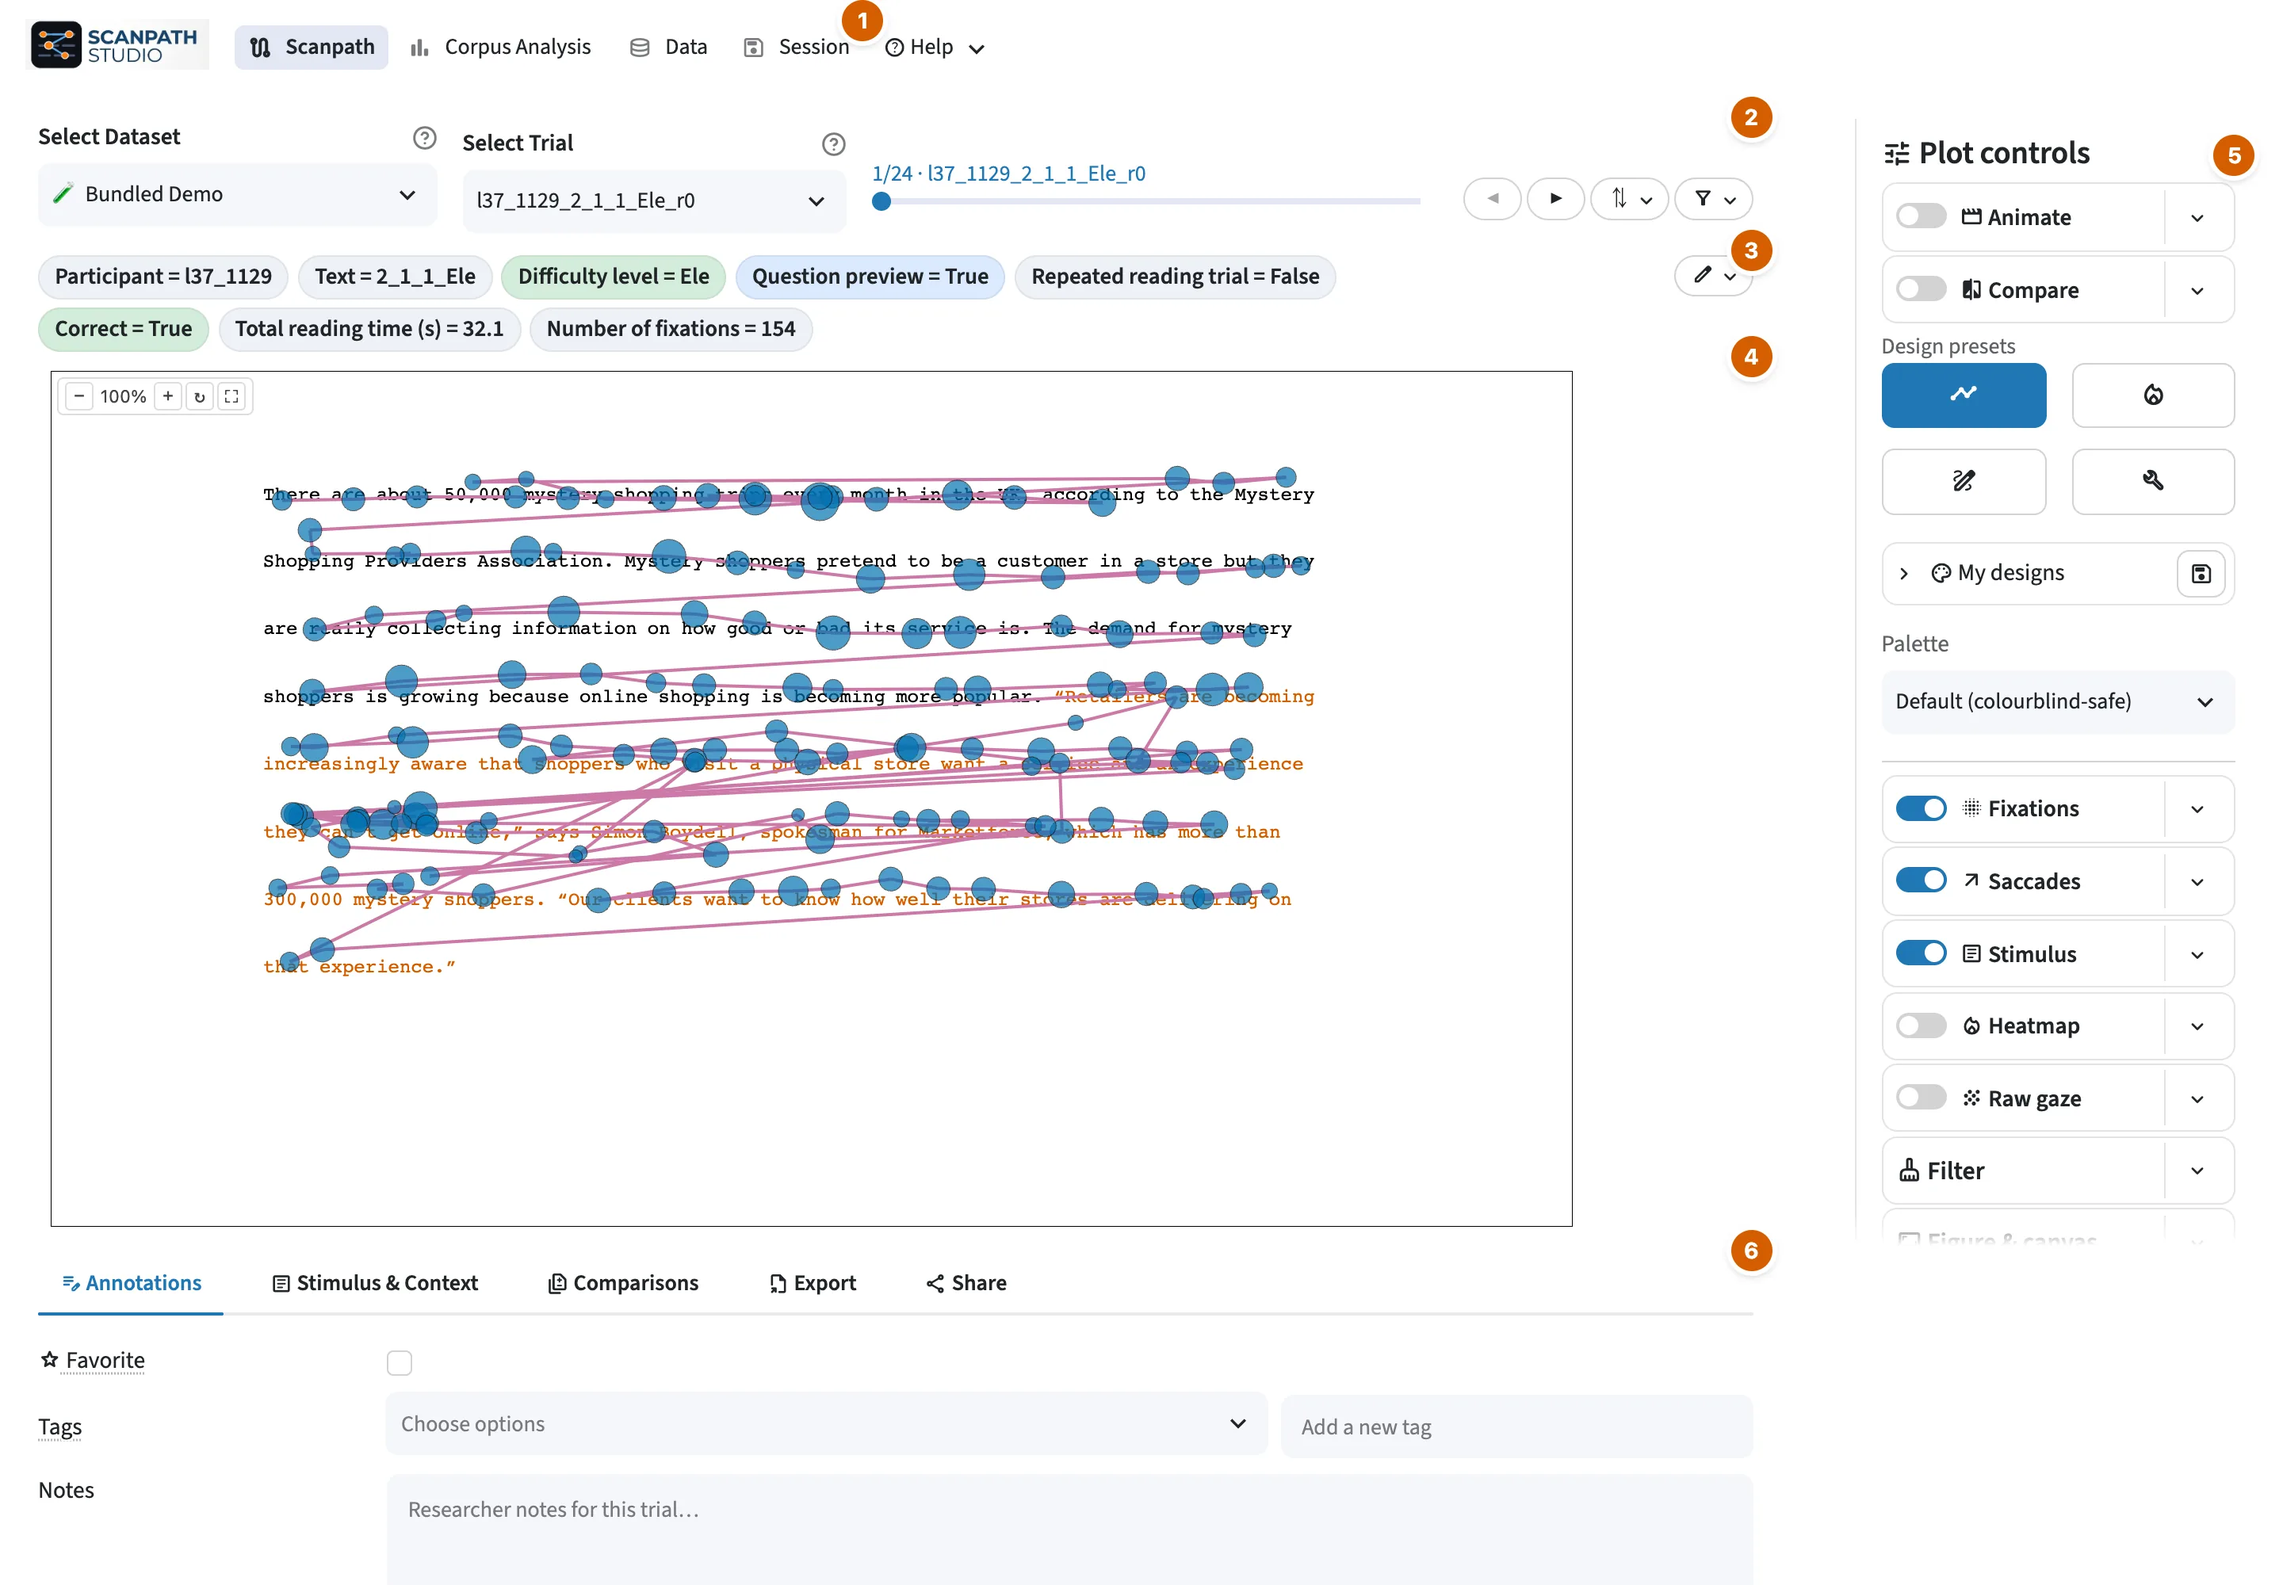
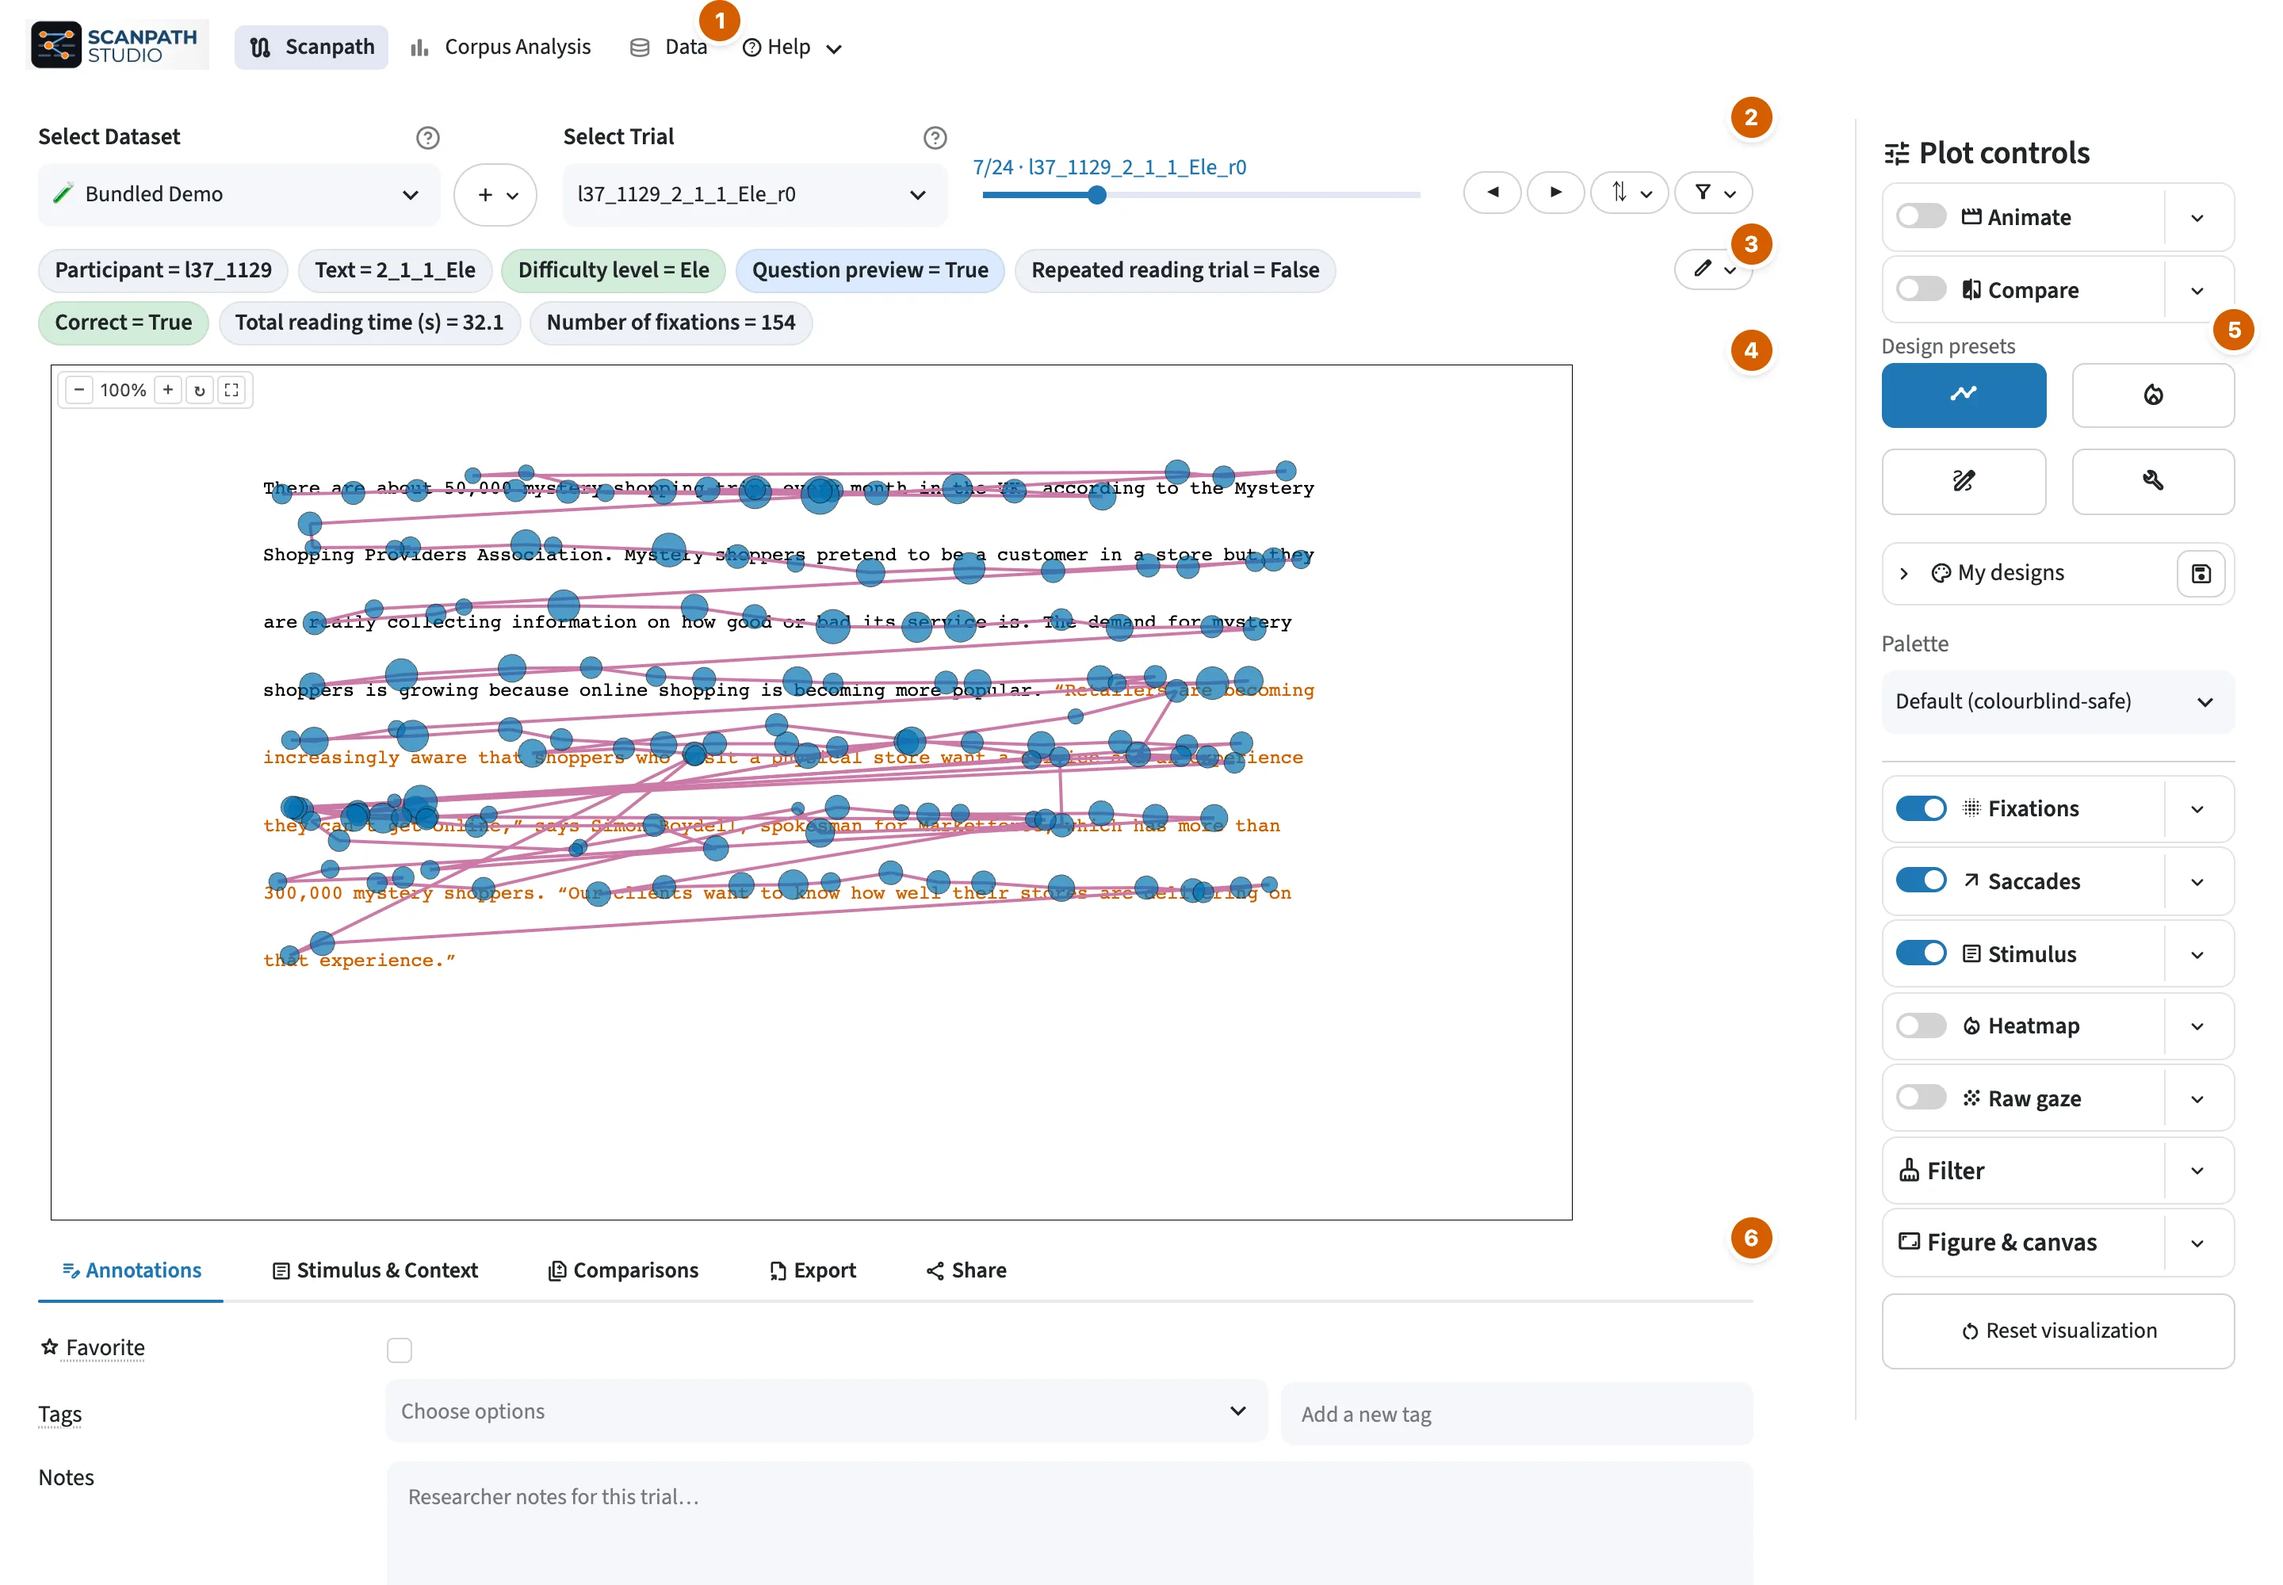
docs: re-capture the screenshots without Session (UX-179)

diff --git a/docs/guides/outputs-sharing.md b/docs/guides/outputs-sharing.md
@@ -39,7 +39,7 @@ code that reproduces the figure, in Python or as a CLI command. **File** is a
 settings file, described below.
 
 <figure class="sps-screenshot" markdown>
-![The Share subtab: the link, and the code that reproduces the figure](../assets/screenshots/share.webp)
+![The Share subtab: the Link · Code · File switch, on Link](../assets/screenshots/share.webp)
 </figure>
 
 A link never contains an uploaded or public dataset's fixation or word tables.
